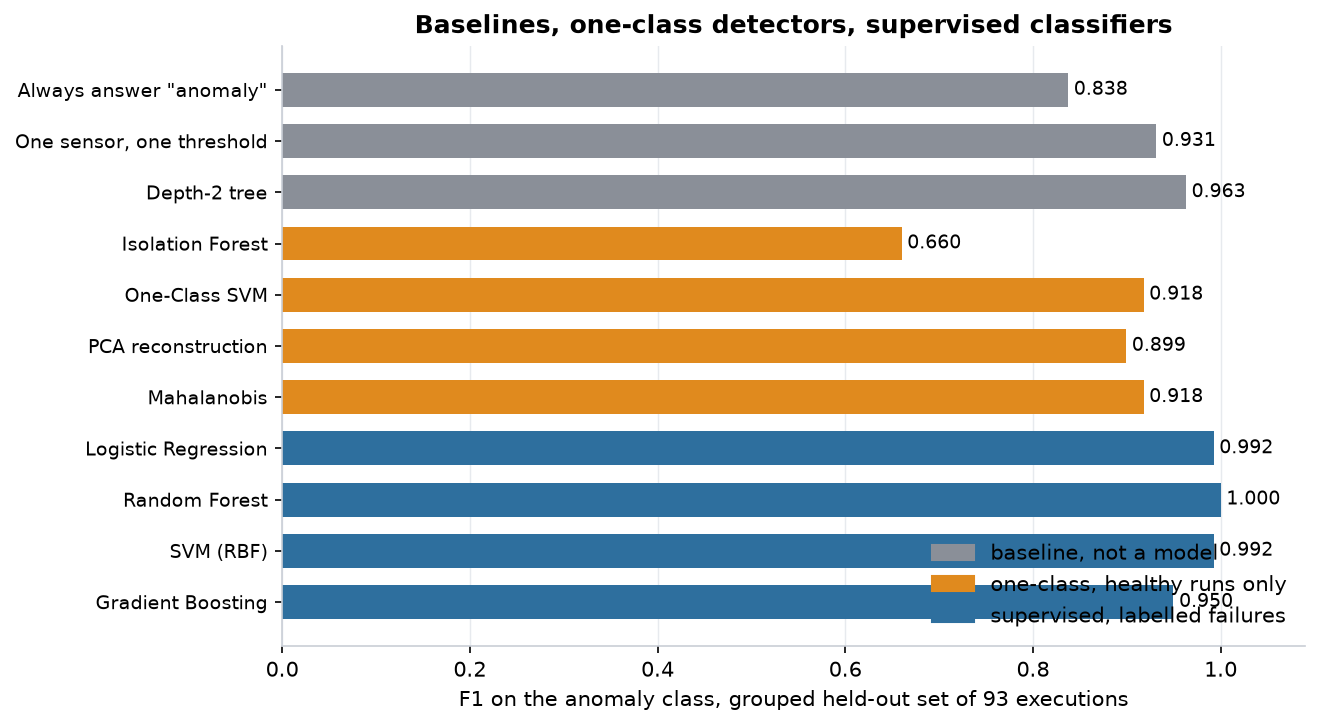
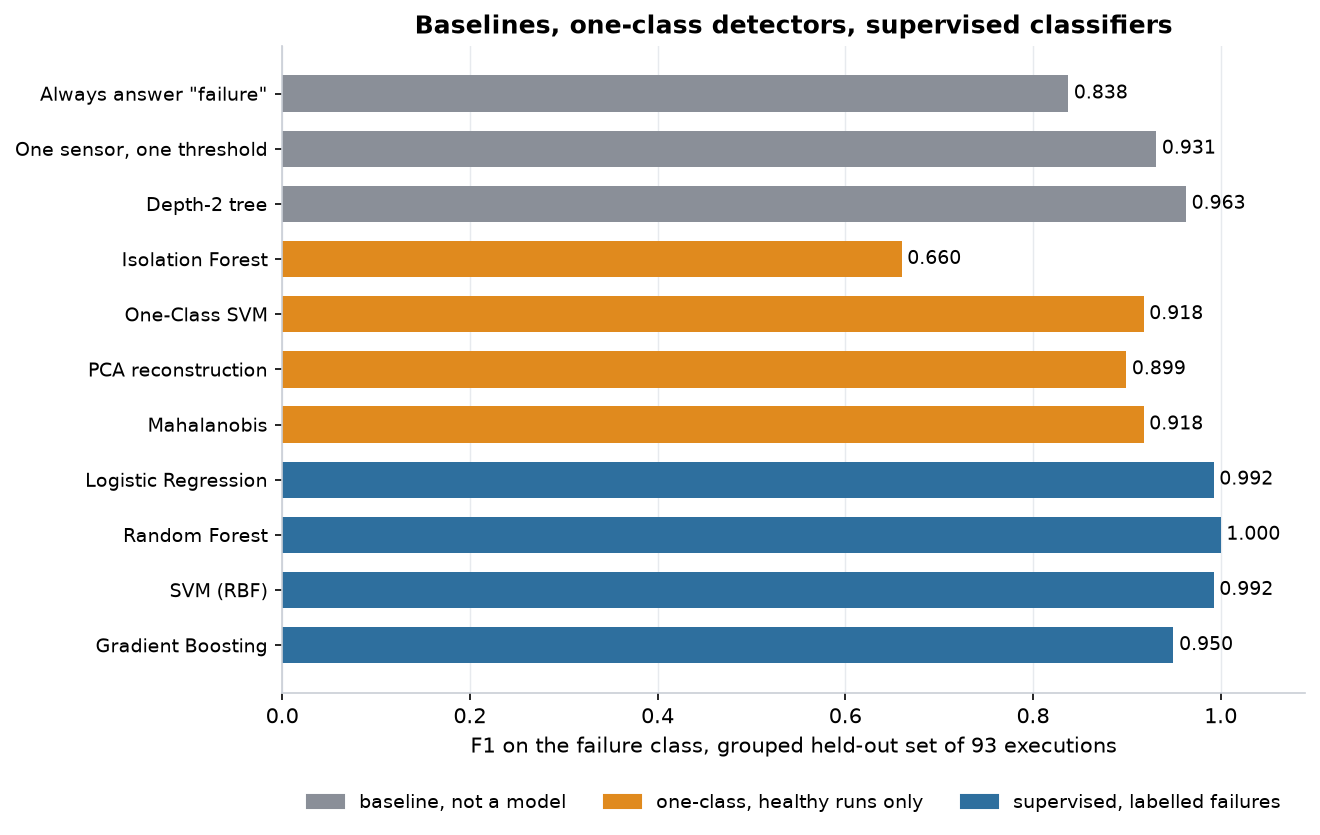
fix(figures): la légende du comparatif passait sur les barres
Toutes les barres horizontales dépassent 0,65, donc aucune légende interne ne
tient sans recouvrir des données. Elle passe sous l'axe, sur une ligne.

Vocabulaire aligné sur le README au passage : « failure » partout plutôt que
« anomaly » sur les axes, puisque c'est le mot qu'emploient les tableaux.

diff --git a/scripts/figures.py b/scripts/figures.py
@@ -69,7 +69,7 @@ PRETTY = {
     "random_forest": "Random Forest",
     "svm_rbf": "SVM (RBF)",
     "gradient_boosting": "Gradient Boosting",
-    "always_anomaly": 'Always answer "anomaly"',
+    "always_anomaly": 'Always answer "failure"',
     "best_single_feature": "One sensor, one threshold",
     "depth_2_tree": "Depth-2 tree",
 }
@@ -283,14 +283,14 @@ def figure_comparison(benchmark: dict, experiments: dict, out: Path) -> None:
     values = [row[1] for row in rows][::-1]
     colors = [row[2] for row in rows][::-1]
 
-    figure, axis = plt.subplots(figsize=(8.8, 5.2))
+    figure, axis = plt.subplots(figsize=(8.8, 5.6))
     axis.barh(np.arange(len(values)), values, color=colors, height=0.66)
     for index, value in enumerate(values):
         axis.text(value + 0.006, index, f"{value:.3f}", va="center", fontsize=9)
     axis.set_yticks(np.arange(len(labels)))
     axis.set_yticklabels(labels, fontsize=9)
     axis.set_xlim(0, 1.09)
-    axis.set_xlabel("F1 on the anomaly class, grouped held-out set of 93 executions")
+    axis.set_xlabel("F1 on the failure class, grouped held-out set of 93 executions")
     axis.set_title("Baselines, one-class detectors, supervised classifiers")
     axis.grid(axis="y", visible=False)
     handles = [
@@ -298,7 +298,15 @@ def figure_comparison(benchmark: dict, experiments: dict, out: Path) -> None:
         Patch(color=ACCENT, label="one-class, healthy runs only"),
         Patch(color=HEALTHY, label="supervised, labelled failures"),
     ]
-    axis.legend(handles=handles, loc="lower right")
+    # Below the axis: every horizontal bar reaches past 0.65, so any in-axes
+    # legend sits on top of data.
+    axis.legend(
+        handles=handles,
+        loc="upper center",
+        bbox_to_anchor=(0.5, -0.13),
+        ncol=3,
+        fontsize=9,
+    )
     figure.savefig(out / "model-comparison.png")
     plt.close(figure)
 
@@ -329,7 +337,7 @@ def figure_threshold(experiments: dict, out: Path) -> None:
             label=PRETTY[name],
         )
     axis.set_xlabel("threshold, as a percentile of the healthy training scores")
-    axis.set_ylabel("F1, anomaly class")
+    axis.set_ylabel("F1, failure class")
     axis.set_title("Every detector ranks perfectly. Only the threshold separates them")
     axis.legend(loc="lower left", ncol=2)
     figure.savefig(out / "threshold-sensitivity.png")
